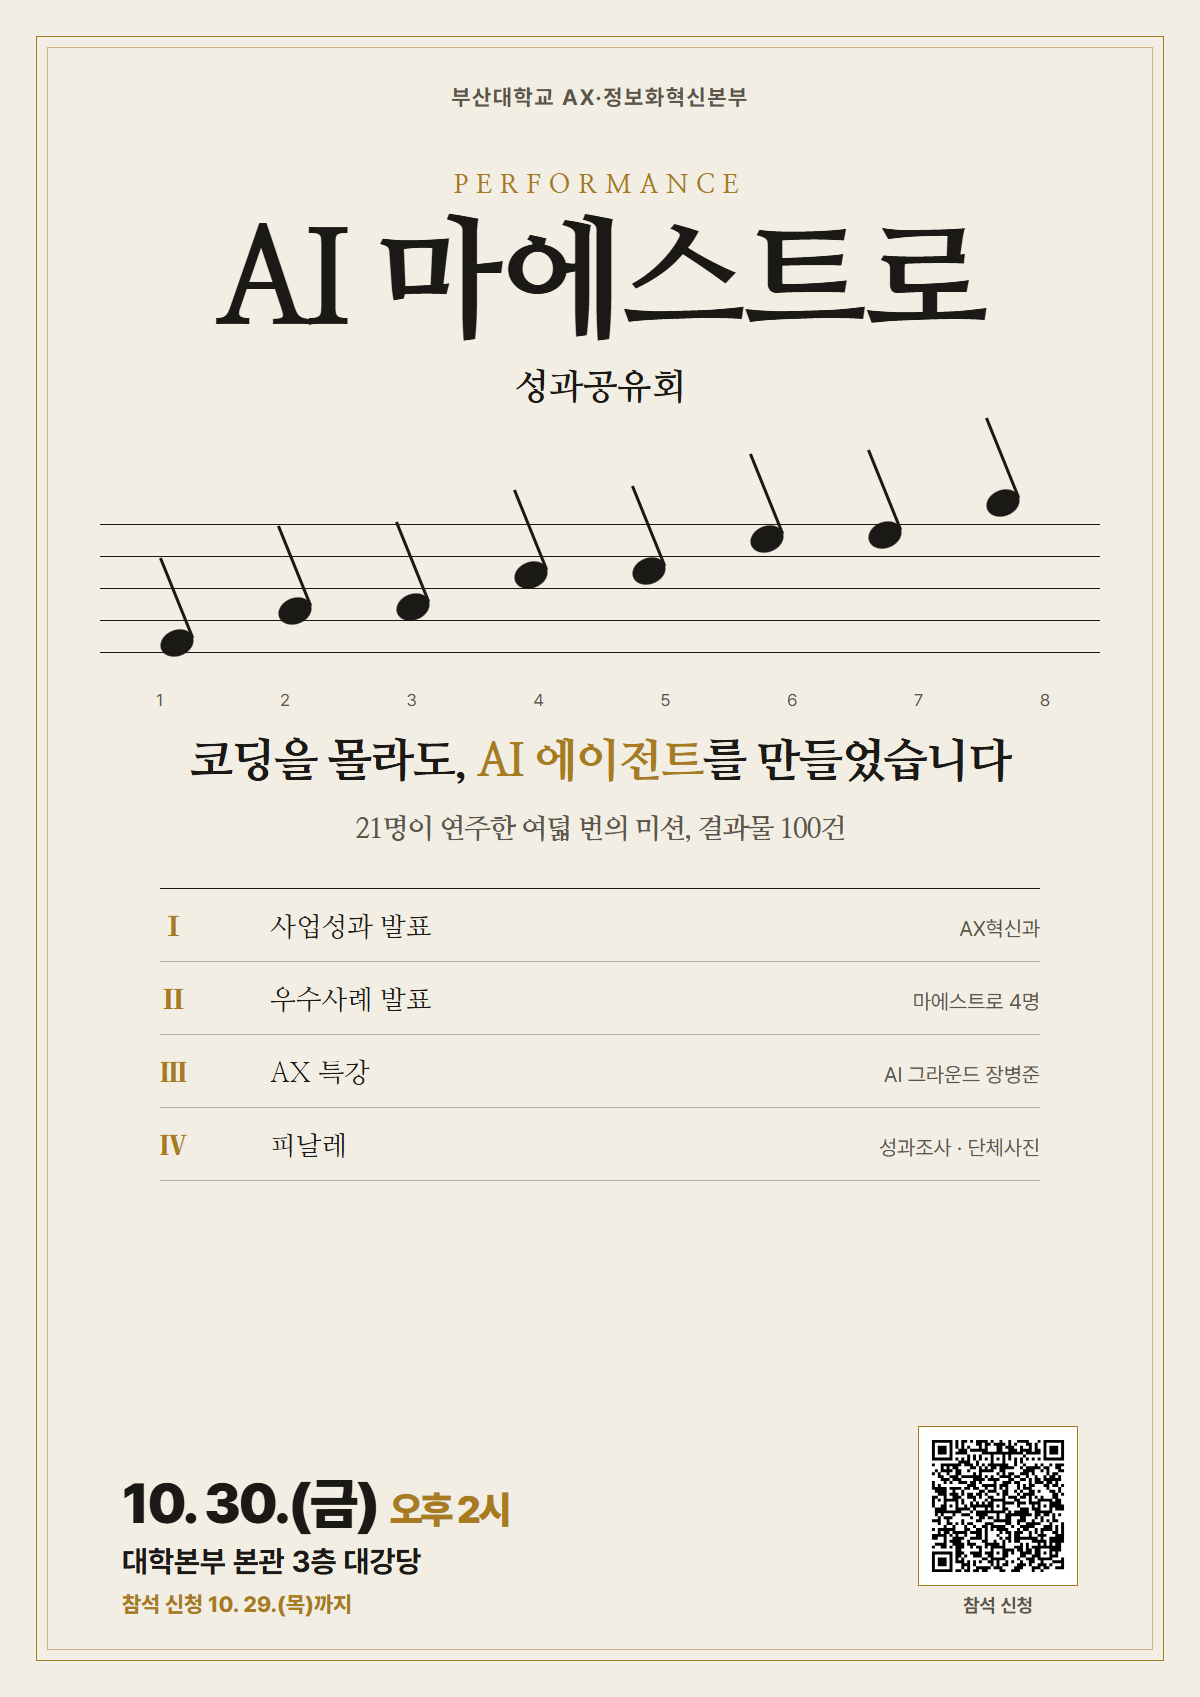
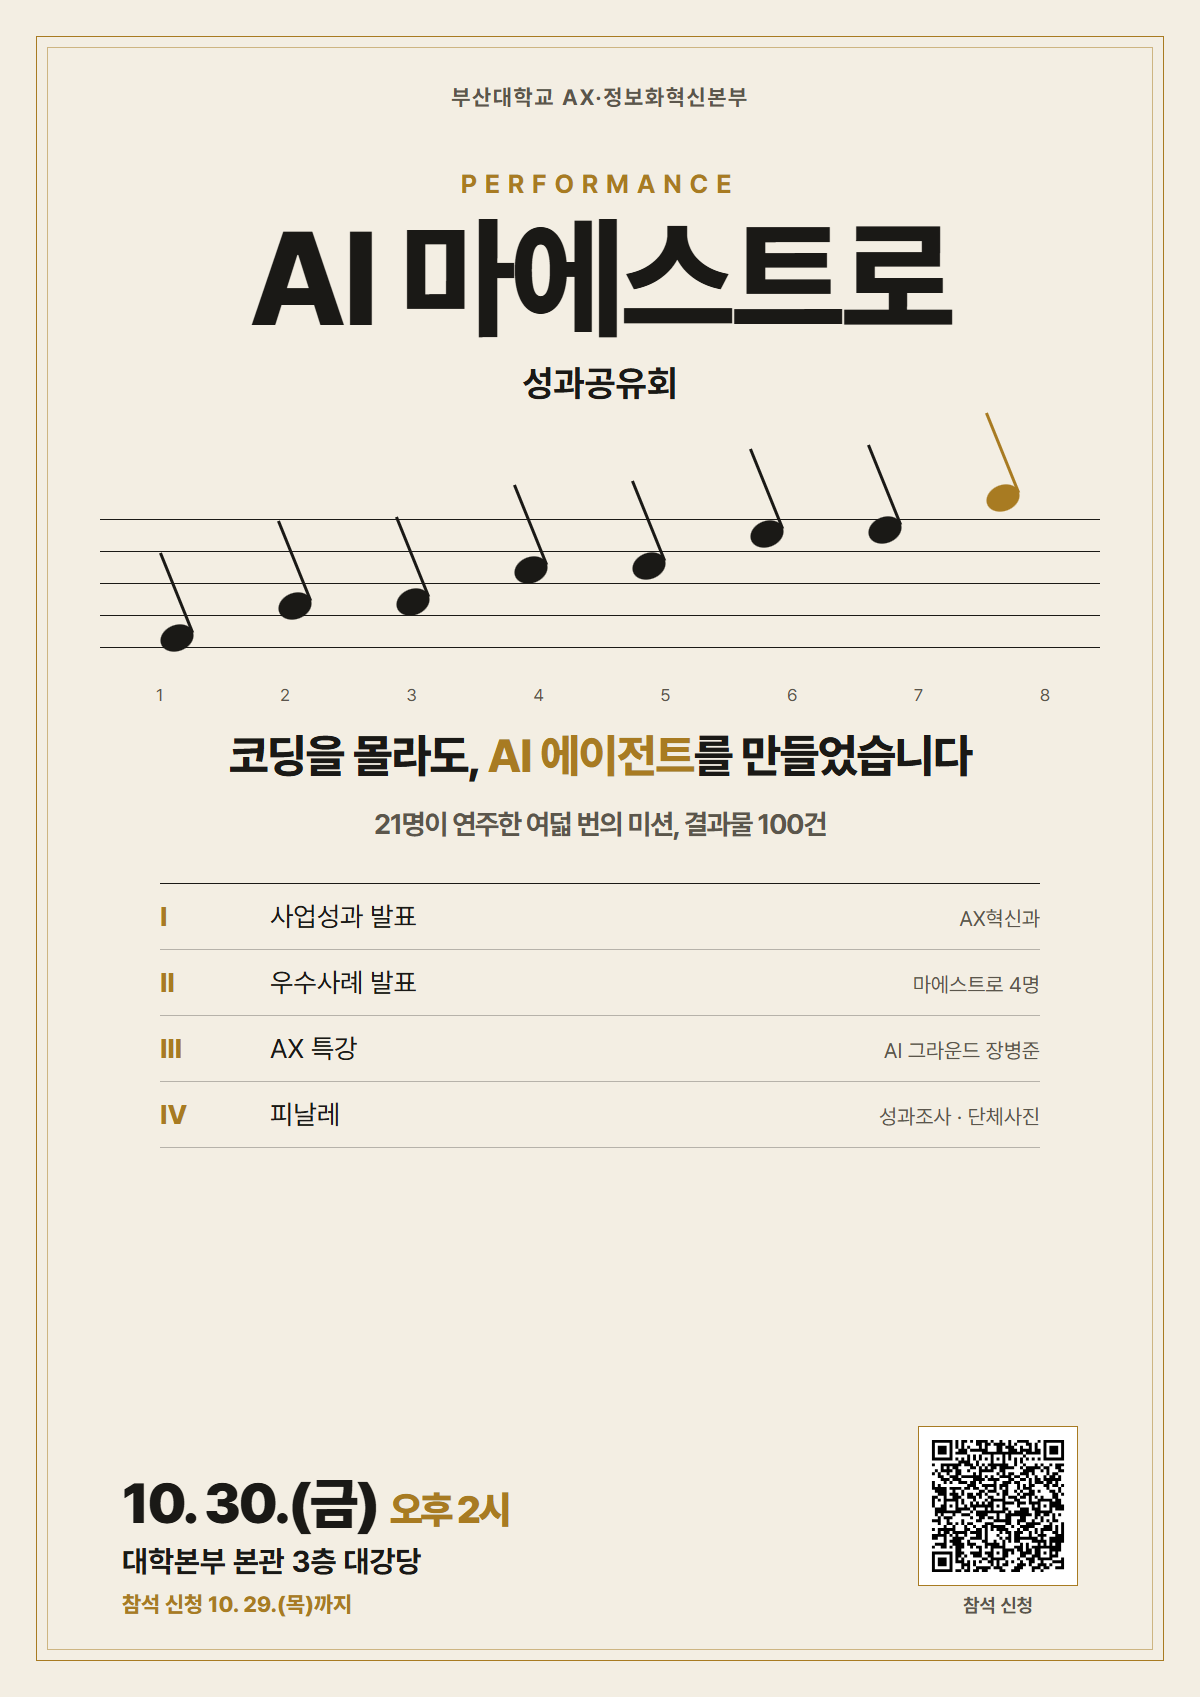
concert: 미리보기 그림 Pretendard 로 교체, og:image 절대 주소

diff --git a/concert/index.html b/concert/index.html
@@ -7,7 +7,8 @@
 <meta name="description" content="코딩을 몰라도, AI 에이전트를 만들었습니다. 2026. 10. 30.(금) 오후 2시, 부산대학교 대학본부 본관 3층 대강당">
 <meta property="og:title" content="AI 마에스트로 성과공유회 · 10. 30.(금) 오후 2시">
 <meta property="og:description" content="코딩을 몰라도, AI 에이전트를 만들었습니다. 21명이 연주한 여덟 번의 미션, 결과물 100건">
-<meta property="og:image" content="poster.png">
+<meta property="og:image" content="https://jyseok0311.github.io/ai-maestro-showcase/concert/poster.png">
+<meta property="og:url" content="https://jyseok0311.github.io/ai-maestro-showcase/concert/">
 <meta property="og:type" content="website">
 <meta name="theme-color" content="#F3EEE3">
 <link rel="stylesheet" href="https://cdn.jsdelivr.net/gh/orioncactus/pretendard@v1.3.9/dist/web/variable/pretendardvariable.css">
